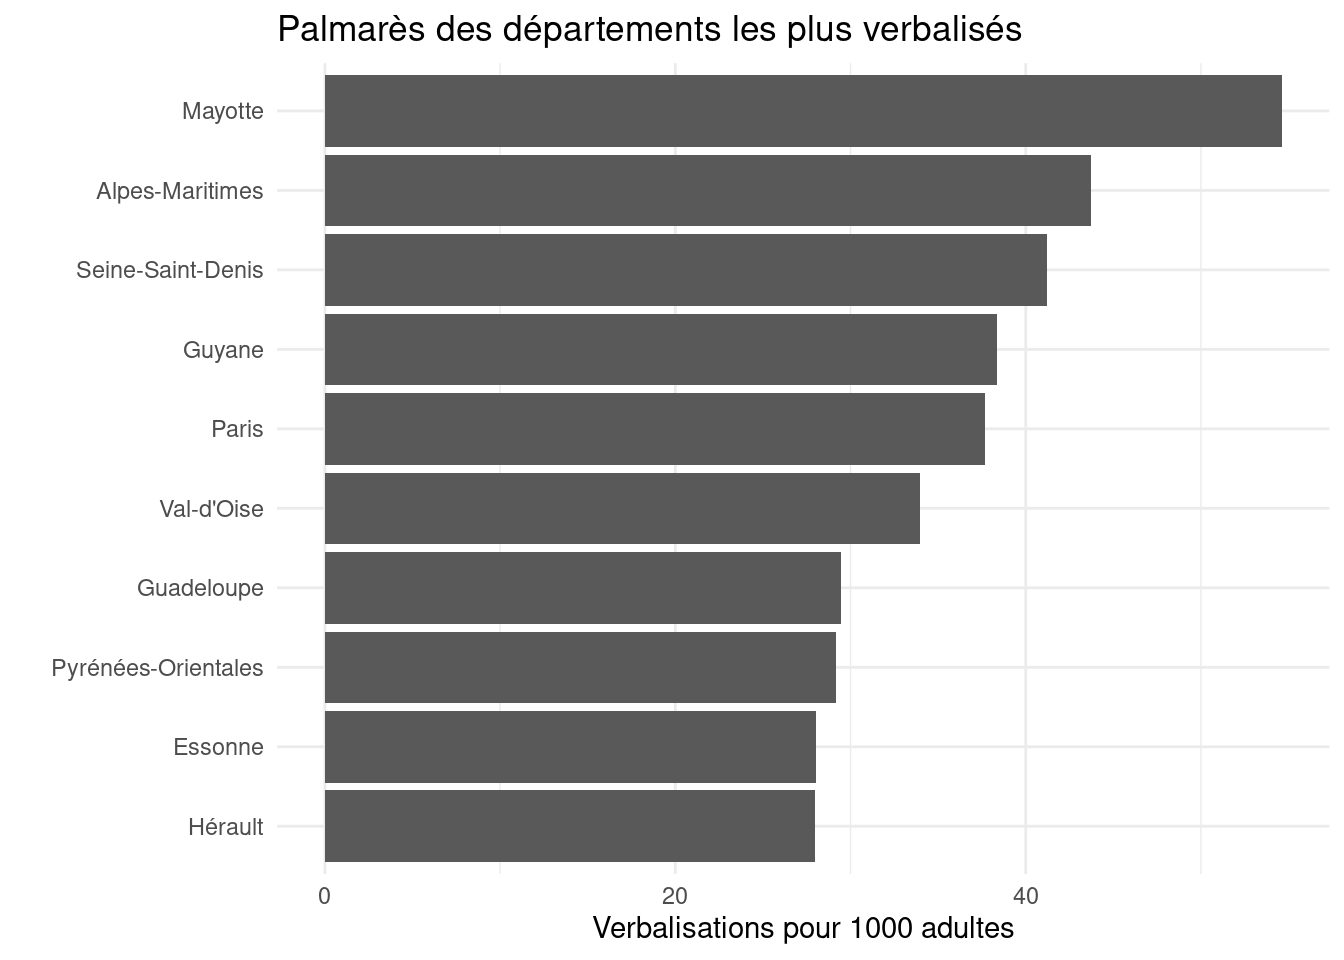
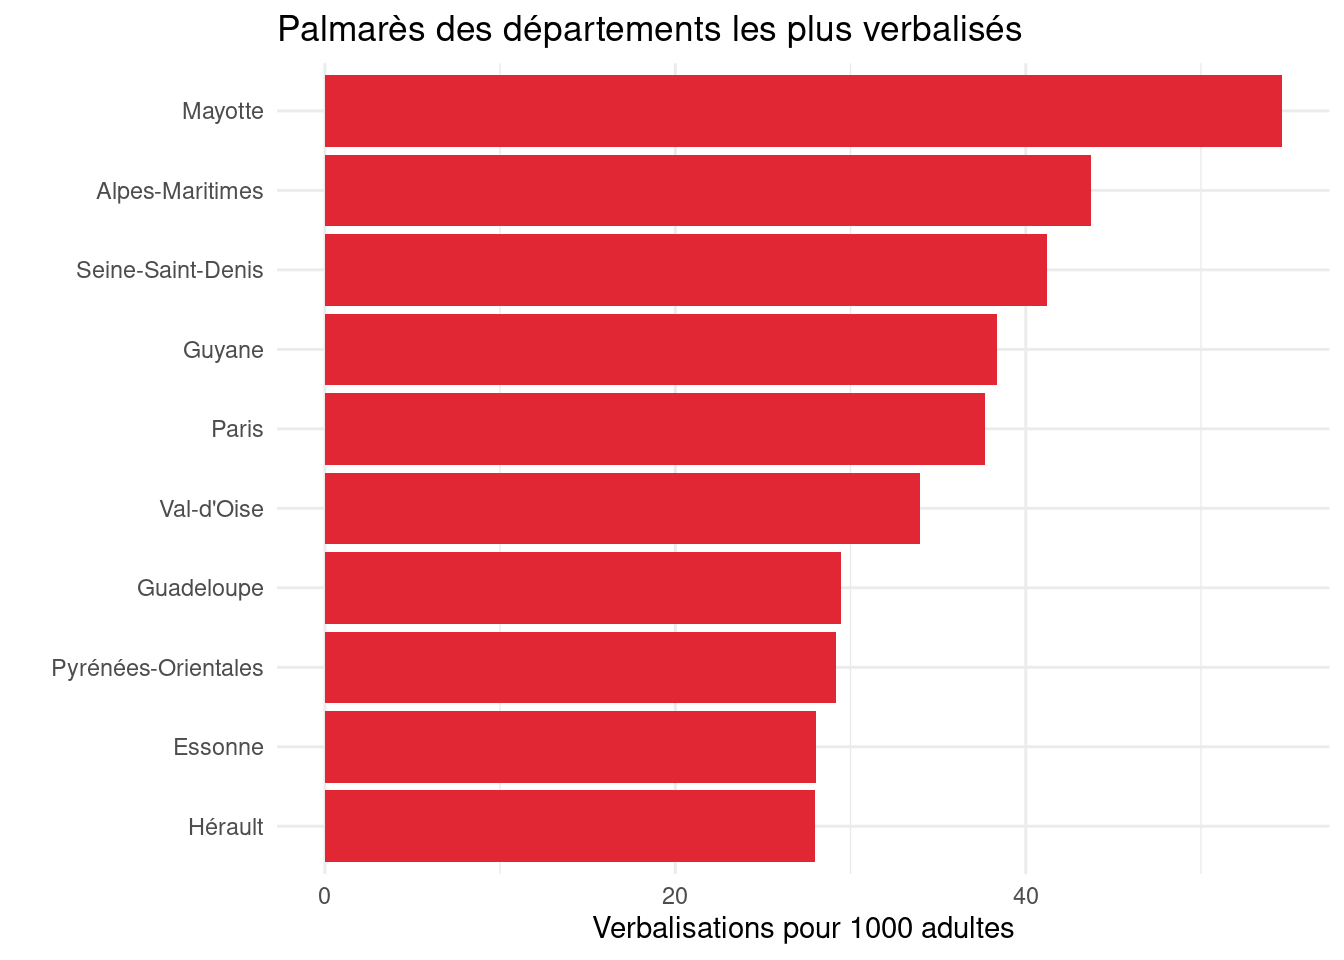
fill verbalisations palmares with red

diff --git a/docs/exercices/verbalisations-departement/index.html b/docs/exercices/verbalisations-departement/index.html
@@ -296,7 +296,7 @@ pre > code.sourceCode > span > a:first-child::before { text-decoration: underlin
 <span id="cb9-2"><a href="#cb9-2" aria-hidden="true" tabindex="-1"></a>  <span class="fu">slice_max</span>(<span class="at">order_by =</span> verbalisations_pmla, <span class="at">n =</span> <span class="dv">10</span>) <span class="sc">|&gt;</span> </span>
 <span id="cb9-3"><a href="#cb9-3" aria-hidden="true" tabindex="-1"></a>  <span class="fu">mutate</span>(<span class="at">nom_departement =</span> <span class="fu">fct_reorder</span>(nom_departement, verbalisations_pmla)) <span class="sc">|&gt;</span></span>
 <span id="cb9-4"><a href="#cb9-4" aria-hidden="true" tabindex="-1"></a>  <span class="fu">ggplot</span>(<span class="fu">aes</span>(<span class="at">x =</span> verbalisations_pmla, <span class="at">y =</span> nom_departement)) <span class="sc">+</span></span>
-<span id="cb9-5"><a href="#cb9-5" aria-hidden="true" tabindex="-1"></a>  <span class="fu">geom_bar</span>(<span class="at">stat =</span> <span class="st">"identity"</span>) <span class="sc">+</span></span>
+<span id="cb9-5"><a href="#cb9-5" aria-hidden="true" tabindex="-1"></a>  <span class="fu">geom_bar</span>(<span class="at">stat =</span> <span class="st">"identity"</span>, <span class="at">fill =</span> <span class="st">"#E12634"</span>) <span class="sc">+</span></span>
 <span id="cb9-6"><a href="#cb9-6" aria-hidden="true" tabindex="-1"></a>  <span class="fu">labs</span>(<span class="at">x =</span> <span class="st">"Verbalisations pour 1000 adultes"</span>,</span>
 <span id="cb9-7"><a href="#cb9-7" aria-hidden="true" tabindex="-1"></a>       <span class="at">y =</span> <span class="st">""</span>,</span>
 <span id="cb9-8"><a href="#cb9-8" aria-hidden="true" tabindex="-1"></a>       <span class="at">title =</span> <span class="st">"Palmarès des départements les plus verbalisés"</span>) <span class="sc">+</span></span>

diff --git a/docs/exercices.html b/docs/exercices.html
@@ -304,7 +304,7 @@ Théo Boulakia, Nicolas Mariot
 </div>
 </a>
 </div>
-<div class="g-col-1" data-index="4" data-categories="La Police des sorties" data-listing-date-sort="1687644000000" data-listing-file-modified-sort="1695737619727" data-listing-date-modified-sort="NaN" data-listing-reading-time-sort="5">
+<div class="g-col-1" data-index="4" data-categories="La Police des sorties" data-listing-date-sort="1687644000000" data-listing-file-modified-sort="1695913343664" data-listing-date-modified-sort="NaN" data-listing-reading-time-sort="5">
 <a href="./exercices/verbalisations-departement/index.html" class="quarto-grid-link">
 <div class="quarto-grid-item card h-100 card-left">
 <p class="card-img-top"><img src="exercices/verbalisations-departement/index_files/figure-html/plot_palmares-1.png" style="height: 150px;"  class="thumbnail-image card-img"/></p>
